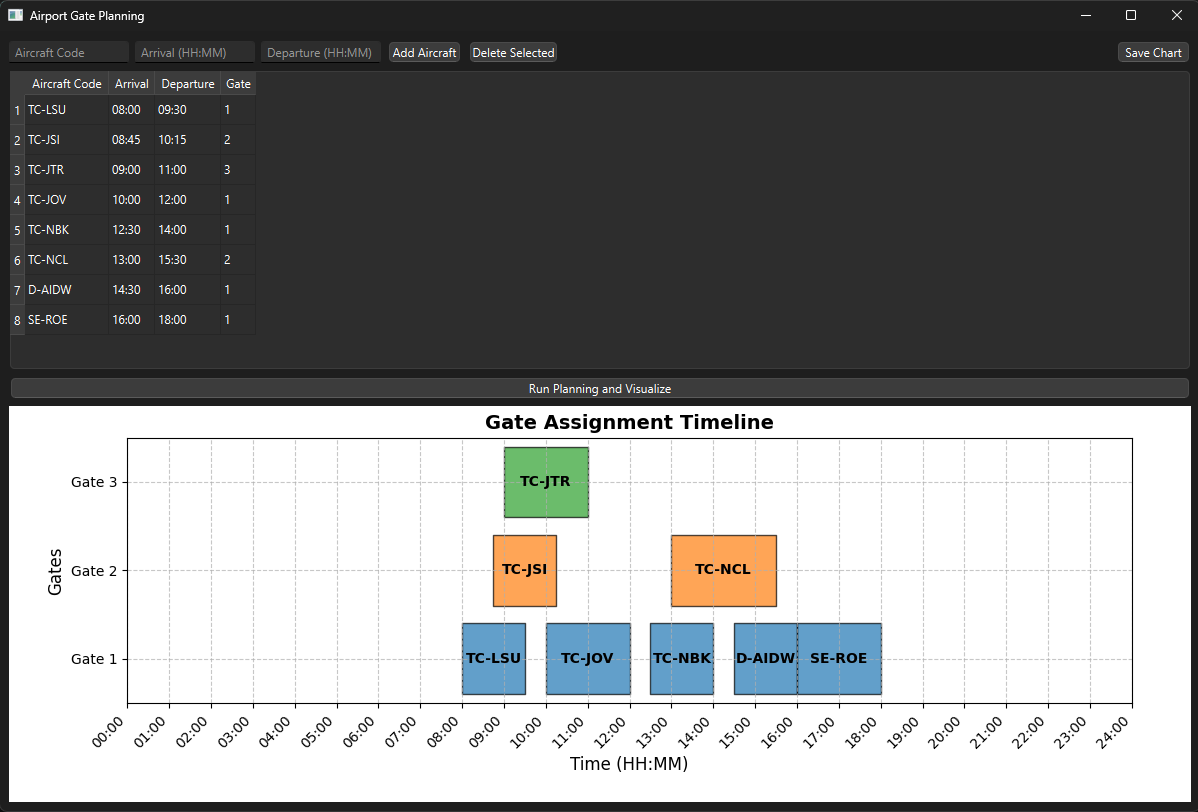
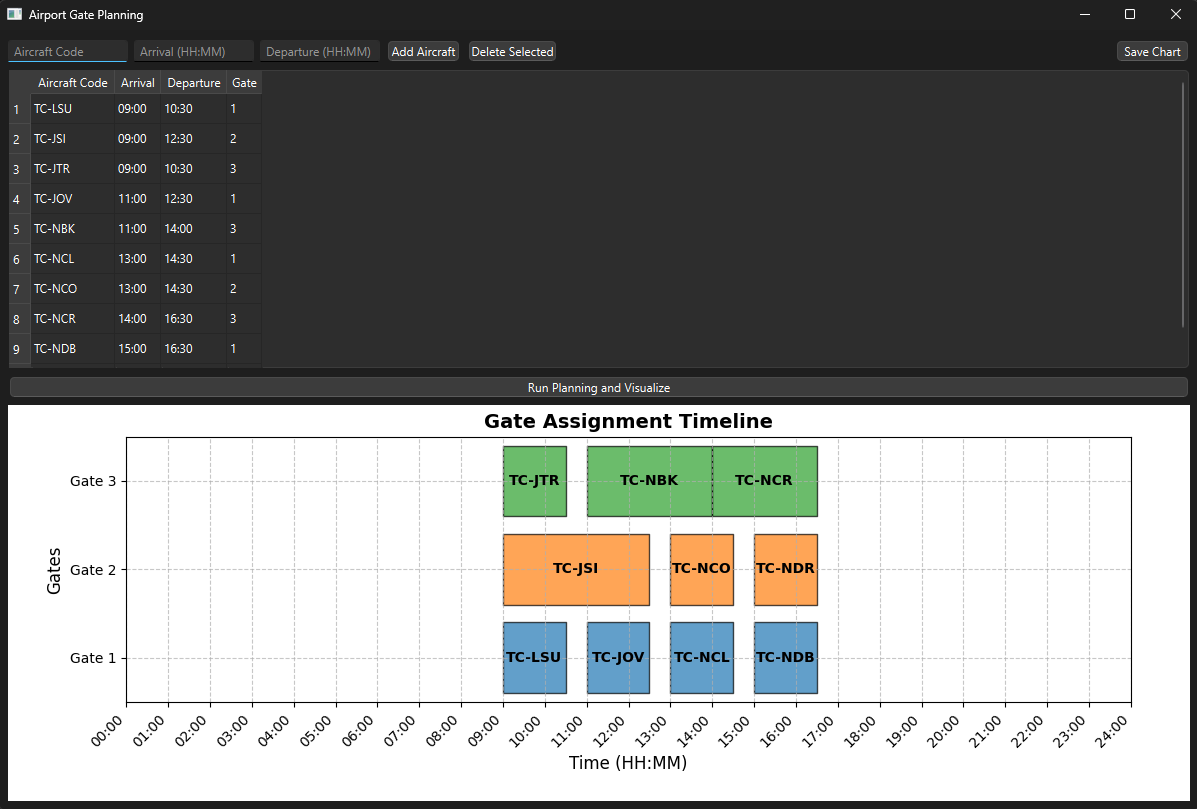
Optimized sorting algorithm

diff --git a/src/interval_partitioning.py b/src/interval_partitioning.py
@@ -45,11 +45,83 @@ class Aircraft:
         """
         return f"{self.code} ({self.arrival}-{self.departure})"
 
+def to_m(time_str):
+    """
+    Convert an HH:MM time string into an integer
+    representing minutes from midnight.
+    """
+    hours, mins = map(int, time_str.split(":"))
+    return hours * 60 + mins
+
+
+def to_hhmm(minutes):
+    """
+    Convert minutes since midnight to HH:MM format
+    """
+    hours = minutes // 60
+    mins = minutes % 60
+    return f"{hours:02d}:{mins:02d}"
+
+def partition(arr, low, high):
+    """
+    Partition the array using the rightmost element as pivot.
+    
+    Args:
+        arr (list): List of Aircraft objects
+        low (int): Starting index of the partition
+        high (int): Ending index of the partition
+    
+    Returns:
+        int: The partition index
+    """
+    # Select the rightmost element as the pivot value
+    pivot = arr[high].arrival
+    
+    # Initialize the index of smaller element
+    i = low - 1
+    
+    # Iterate through the partition range
+    for j in range(low, high):
+        # If current element is less than or equal to pivot
+        if arr[j].arrival <= pivot:
+            # Move the index forward and swap elements
+            i += 1
+            arr[i], arr[j] = arr[j], arr[i]
+    
+    # Place pivot in its final position
+    arr[i + 1], arr[high] = arr[high], arr[i + 1]
+    return i + 1
+
+def quicksort(arr, low, high):
+    """
+    Recursively sort the array using QuickSort algorithm.
+    
+    Args:
+        arr (list): List of Aircraft objects
+        low (int): Starting index of the subarray
+        high (int): Ending index of the subarray
+    
+    Returns:
+        list: Sorted list of Aircraft objects
+    """
+    # Only process if there are at least 2 elements
+    if low < high:
+        # Get the partition index
+        pi = partition(arr, low, high)
+        
+        # Recursively sort the left partition
+        quicksort(arr, low, pi - 1)
+        
+        # Recursively sort the right partition
+        quicksort(arr, pi + 1, high)
+    
+    # Return the sorted array
+    return arr
+
 def manual_sort_by_arrival(aircraft_list):
     """
     Sort the list of Aircraft objects in ascending order by their arrival time
-    using the QuickSort algorithm. This implementation uses the divide-and-conquer
-    strategy with a pivot element.
+    using the QuickSort algorithm.
 
     Time Complexity: O(n log n) average case
     Space Complexity: O(log n) due to recursion stack
@@ -60,32 +132,11 @@ def manual_sort_by_arrival(aircraft_list):
     Returns:
         list: The sorted list of Aircraft objects by arrival time
     """
-    def quicksort(arr, low, high):
-        if low < high:
-            # Find the partition index
-            pi = partition(arr, low, high)
-            
-            # Recursively sort the left part
-            quicksort(arr, low, pi - 1)
-            # Recursively sort the right part
-            quicksort(arr, pi + 1, high)
+    # Handle empty list case
+    if not aircraft_list:
+        return []
     
-    def partition(arr, low, high):
-        # Choose the rightmost element as pivot
-        pivot = arr[high].arrival
-        i = low - 1  # Index of smaller element
-        
-        for j in range(low, high):
-            # If current element is smaller than or equal to pivot
-            if arr[j].arrival <= pivot:
-                i += 1  # Increment index of smaller element
-                arr[i], arr[j] = arr[j], arr[i]
-        
-        # Place pivot in its correct position
-        arr[i + 1], arr[high] = arr[high], arr[i + 1]
-        return i + 1
-    
-    # Start QuickSort
+    # Sort the list using quicksort and return
     quicksort(aircraft_list, 0, len(aircraft_list) - 1)
     return aircraft_list
 
@@ -149,17 +200,22 @@ def interval_partitioning(aircrafts):
 if __name__ == "__main__":
     # Test the Interval Partitioning Algorithm
     aircrafts = [
-            Aircraft("TC-LSU", 480, 570),   # 08:00 - 09:30
-            Aircraft("TC-JSI", 525, 615),   # 08:45 - 10:15
-            Aircraft("TC-JTR", 540, 660),   # 09:00 - 11:00
-            Aircraft("TC-JOV", 600, 720),   # 10:00 - 12:00
-            Aircraft("TC-NBK", 750, 840),   # 12:30 - 14:00
-            Aircraft("TC-NCL", 780, 930),   # 13:00 - 15:30
-            Aircraft("D-AIDW", 870, 960),   # 14:30 - 16:00
-            Aircraft("SE-ROE", 960, 1080),  # 16:00 - 18:00
-        ]
+        Aircraft("TC-LSU", to_m("09:00"), to_m("10:30")),
+        Aircraft("TC-JSI", to_m("09:00"), to_m("12:30")),
+        Aircraft("TC-JTR", to_m("09:00"), to_m("10:30")),
+        Aircraft("TC-JOV", to_m("11:00"), to_m("12:30")),
+        Aircraft("TC-NBK", to_m("11:00"), to_m("14:00")),
+        Aircraft("TC-NCL", to_m("13:00"), to_m("14:30")),
+        Aircraft("TC-NCO", to_m("13:00"), to_m("14:30")),
+        Aircraft("TC-NCR", to_m("14:00"), to_m("16:30")),
+        Aircraft("TC-NDB", to_m("15:00"), to_m("16:30")),
+        Aircraft("TC-NDR", to_m("15:00"), to_m("16:30"))
+    ]
 
     num_gates, gate_assignments = interval_partitioning(aircrafts)
     print(f"Minimum number of gates needed: {num_gates}")
-    for i, gate in enumerate(gate_assignments):
-        print(f"Gate {i + 1}: {gate}")
+    
+    # Print assignments in HH:MM format
+    for i, gate in enumerate(gate_assignments, 1):
+        assignments = [f"{plane.code} ({to_hhmm(plane.arrival)}-{to_hhmm(plane.departure)})" for plane in gate]
+        print(f"Gate {i}: [{', '.join(assignments)}]")

diff --git a/src/airport_planning.py b/src/airport_planning.py
@@ -373,21 +373,22 @@ class AirportPlanningApp(QMainWindow):
         """Load sample aircraft data with HH:MM time format."""
         sample_data = [
             # Format: Aircraft(code, arrival_time, departure_time)
-            
-            Aircraft("a", self.to_m("09:00"), self.to_m("10:30")),
-            Aircraft("b", self.to_m("09:00"), self.to_m("12:30")),
-            Aircraft("d", self.to_m("11:00"), self.to_m("12:30")),
-            Aircraft("e", self.to_m("11:00"), self.to_m("14:00")),
-            Aircraft("f", self.to_m("13:00"), self.to_m("14:30")),
-            Aircraft("g", self.to_m("13:00"), self.to_m("14:30")),
-            Aircraft("h", self.to_m("14:00"), self.to_m("16:30")),
-            Aircraft("i", self.to_m("15:00"), self.to_m("16:30")),
-            Aircraft("j", self.to_m("15:00"), self.to_m("16:30"))
+            Aircraft("TC-LSU", self.to_m("09:00"), self.to_m("10:30")),
+            Aircraft("TC-JSI", self.to_m("09:00"), self.to_m("12:30")),
+            Aircraft("TC-JTR", self.to_m("09:00"), self.to_m("10:30")),
+            Aircraft("TC-JOV", self.to_m("11:00"), self.to_m("12:30")),
+            Aircraft("TC-NBK", self.to_m("11:00"), self.to_m("14:00")),
+            Aircraft("TC-NCL", self.to_m("13:00"), self.to_m("14:30")),
+            Aircraft("TC-NCO", self.to_m("13:00"), self.to_m("14:30")),
+            Aircraft("TC-NCR", self.to_m("14:00"), self.to_m("16:30")),
+            Aircraft("TC-NDB", self.to_m("15:00"), self.to_m("16:30")),
+            Aircraft("TC-NDR", self.to_m("15:00"), self.to_m("16:30"))
         ]
-        
+
         self.aircraft_list.extend(sample_data)
         self.update_table()
         self.run_planning()
+
 
 if __name__ == "__main__":
     app = QApplication(sys.argv)
